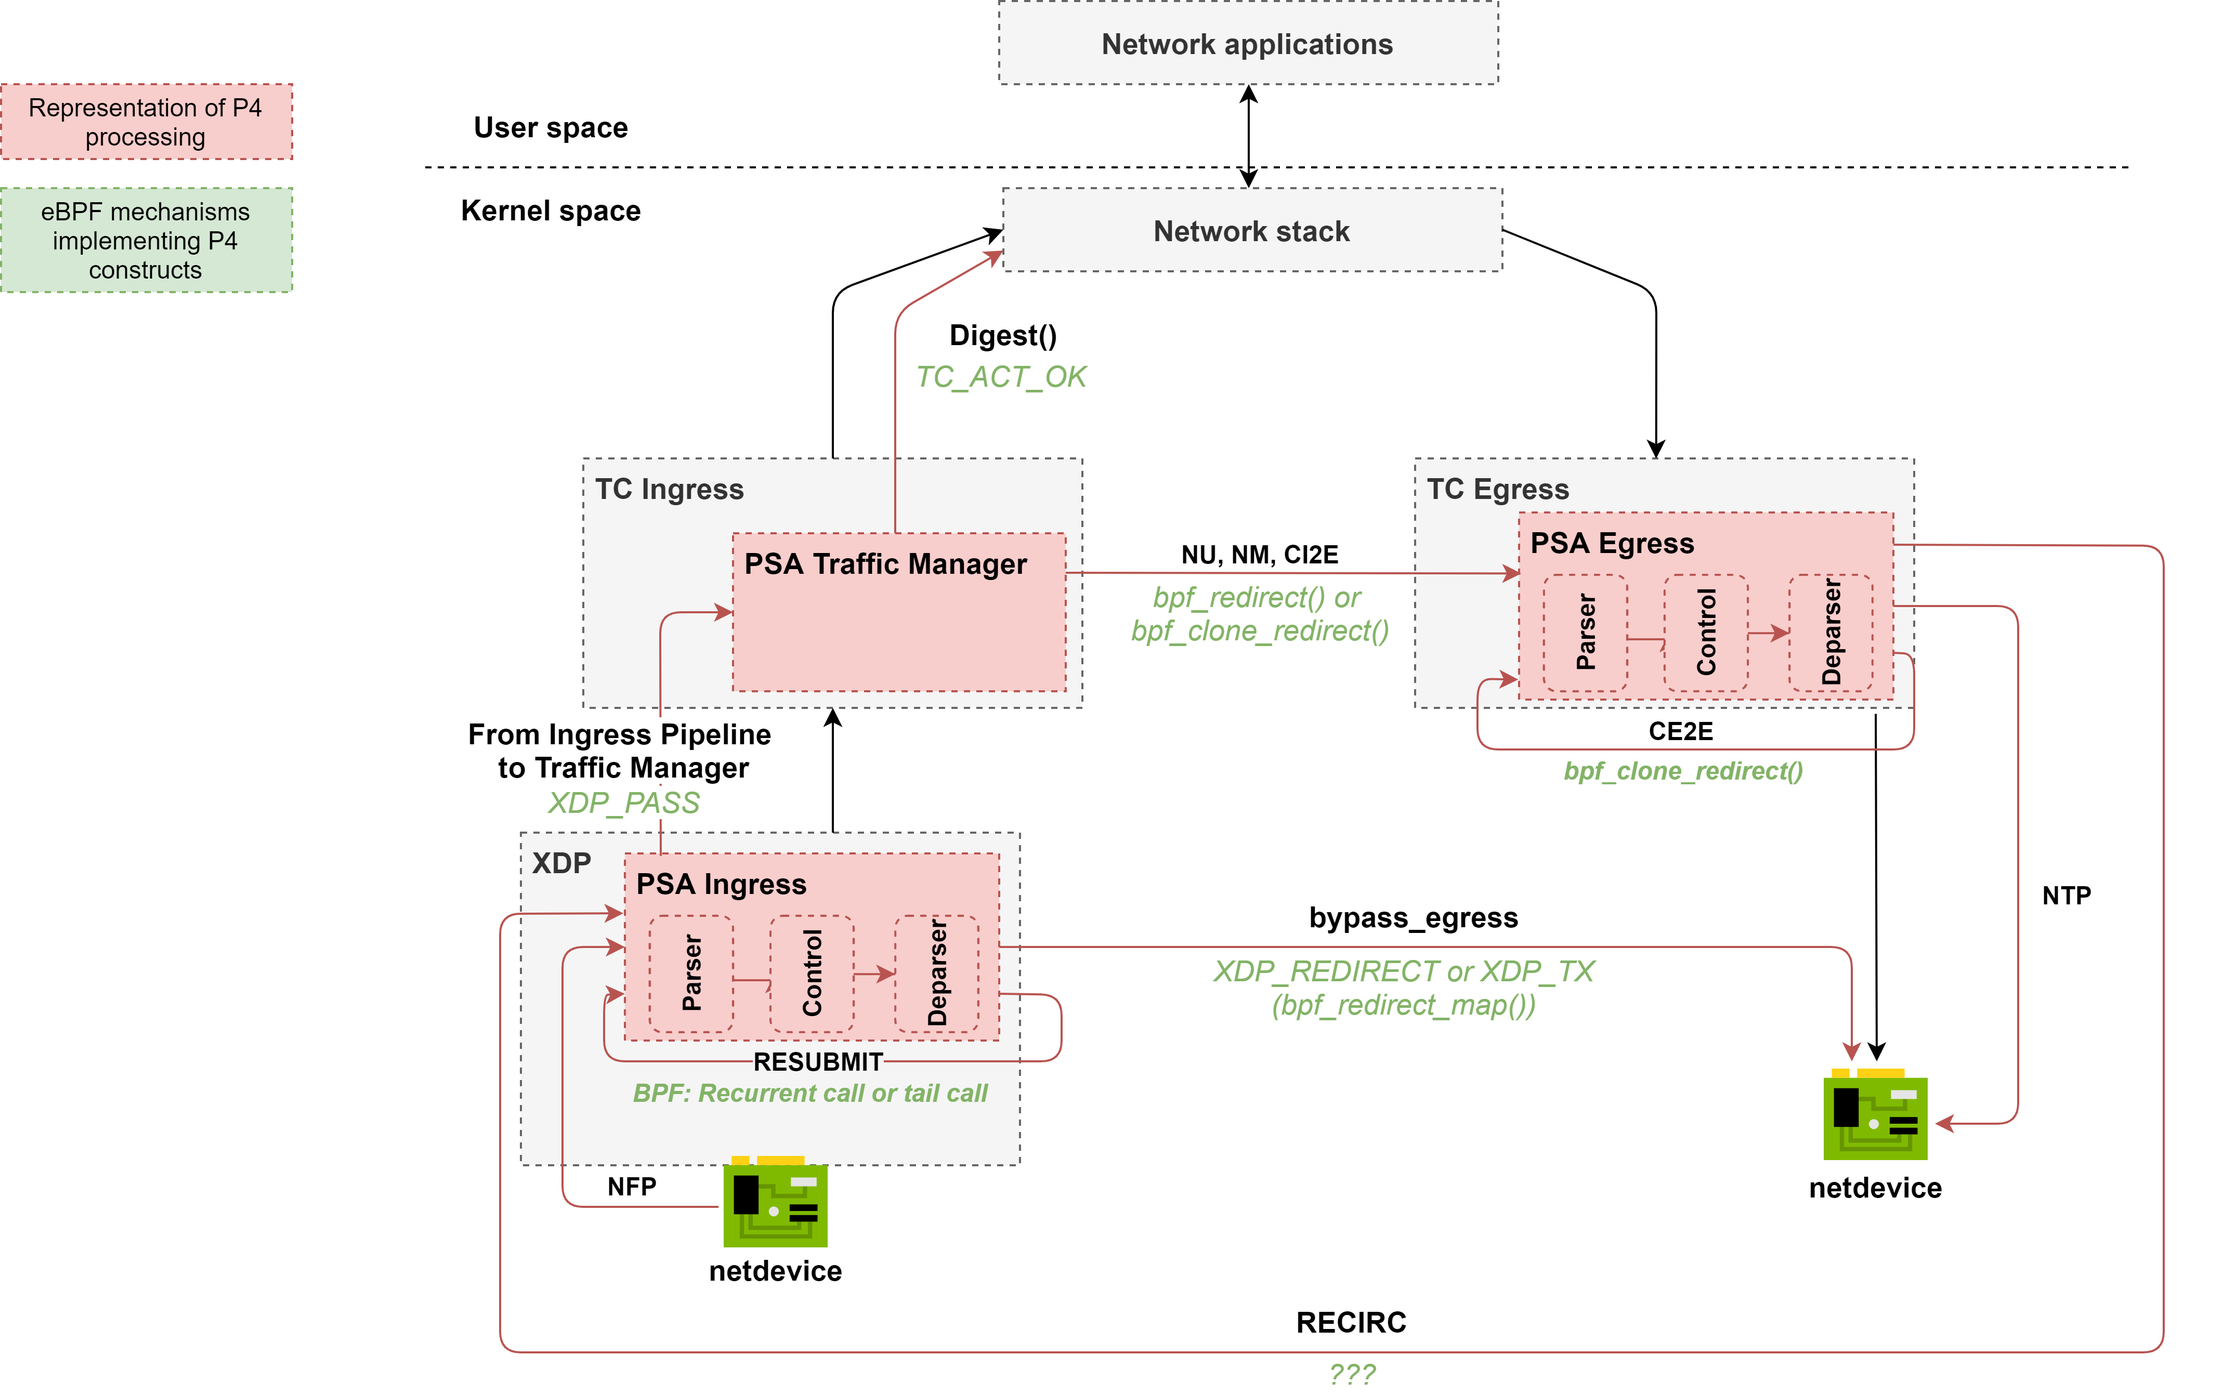
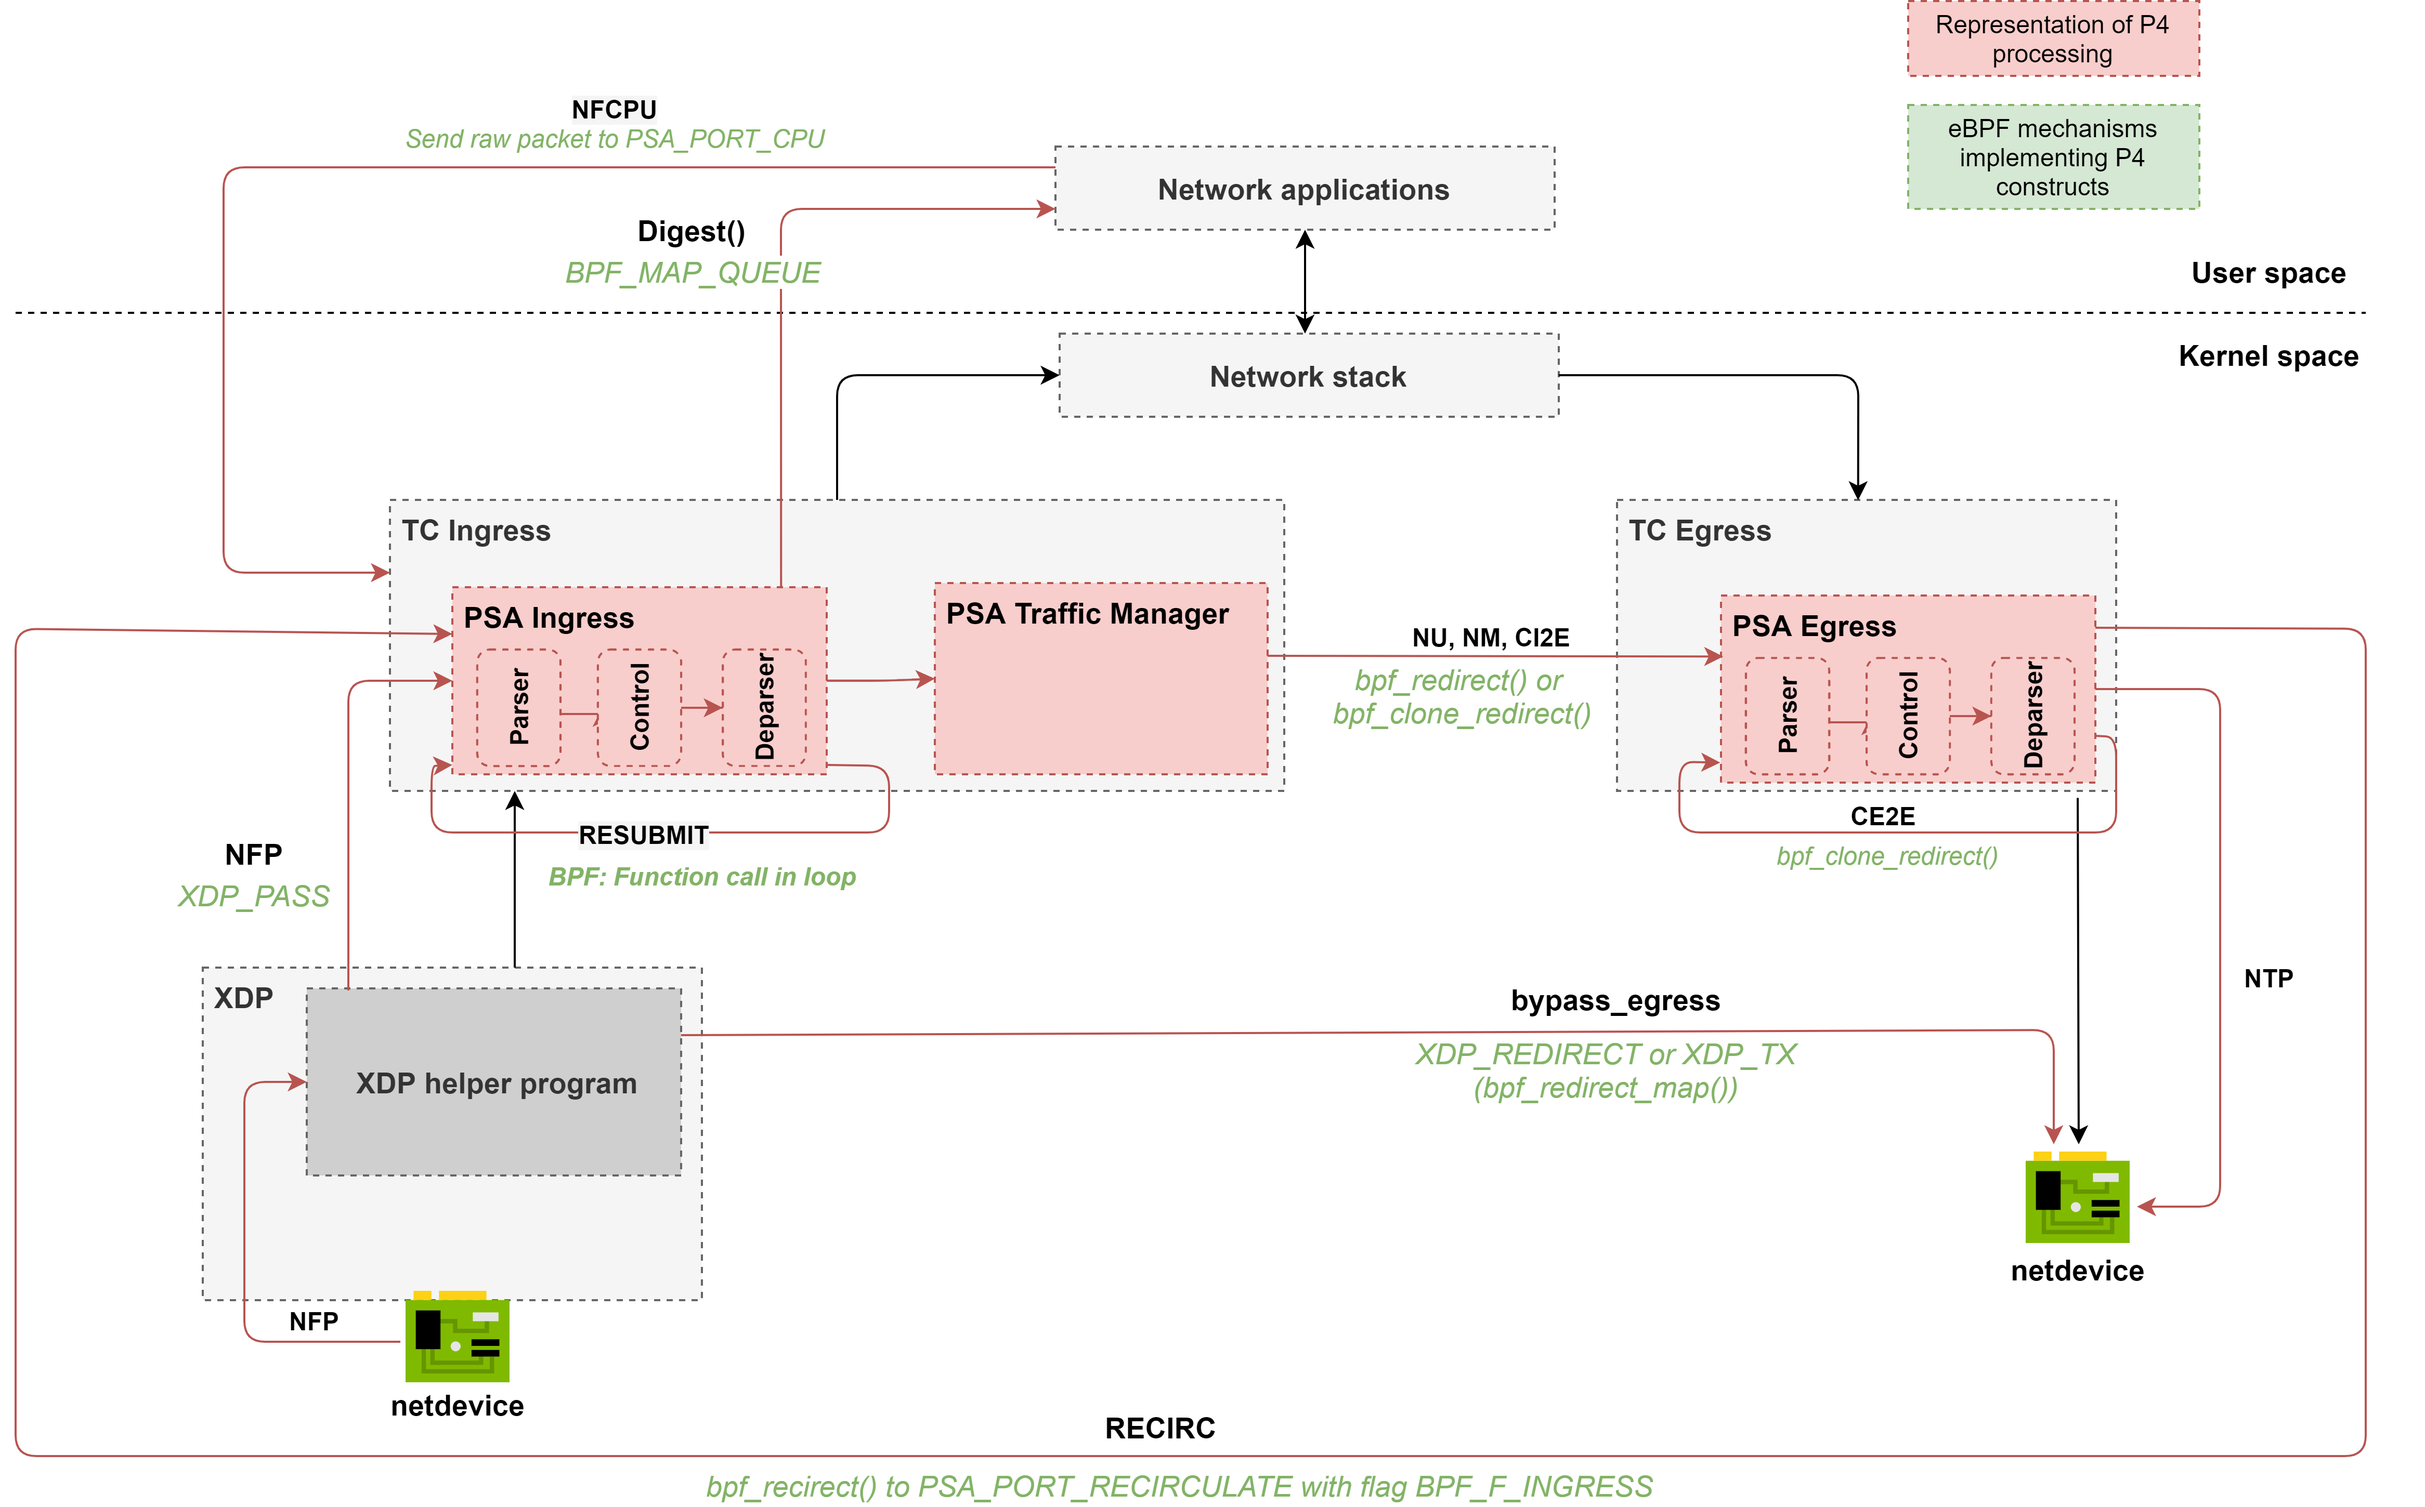
Documentation: updated design

diff --git a/backends/ebpf/docs/design.md b/backends/ebpf/docs/design.md
@@ -1,25 +1,42 @@
 # Overview
 
-The general design of PSA for eBPF is depicted in Figure below.
+The general design of PSA for eBPF is depicted in Figure below. For more details (sample implementation) please refer to 
+[PoC of target architecture](../samples/full-arch).
 
 ![alt text](figures/p4c-ebpf-psa.png "Design of PSA for eBPF")
 
 The PSA program is decomposed into several eBPF programs that are intended to be attached to various hook points in the Linux kernel.
 
-- `xdp-ingress` - The PSA Ingress pipeline (composed of Parser, Control block and Deparser) is attached to the XDP hook. The rationale is that 
-many packets can be discarded at the lowest level if the Ingress Parser does not support a packet header. 
-- `tc-ingress` - The PSA Egress pipeline (composed of Parser, Control block and Deparser) is attached to the TC Egress hook. As there is no 
-XDP hook in the Egress path, the use of TC is mandatory for the egress processing. However, there is no direct path between XDP 
-in the Ingress and the TC Egress hookpoint. Therefore, we introduce the another eBPF program in the TC Ingress.
-- `tc-egress` - In the TC Ingress, the so-called "Traffic Manager" eBPF program is attached. The role of this program is to redirect traffic between
-the Ingress (XDP) and Egress (TC). It is also responsible for packet cloning and sending packet to CPU (if `Digest` extern is used).
+- `xdp-helper` - the "helper" program attached to the XDP hookpoint. The role of the `xdp-helper` program is to prepare
+a packet for further processing in the TC subsystem. It might be also used to optimize performance by offloading ingress 
+packet processing to XDP, but it can be done only for some P4 programs. 
+- `tc-ingress` - In the TC Ingress, the P4 Ingress pipeline as well as so-called "Traffic Manager" eBPF program is attached. 
+The Ingress pipeline is composed of Parser, Control block and Deparser. The details of Parser, Control block and Deparser implementation
+will be explained further in this document. The same eBPF program in TC contains also the Traffic Manager. 
+The role of Traffic Manager is to redirect traffic between the Ingress (TC) and Egress (TC). 
+It is also responsible for packet cloning and sending packet to CPU (if `Digest` extern is used). 
+- `tc-egress` - The PSA Egress pipeline (composed of Parser, Control block and Deparser) is attached to the TC Egress hook. As there is no 
+XDP hook in the Egress path, the use of TC is mandatory for the egress processing.
+
+# Rationale behind the current design
+
+- The PSA specification differs from TNA or v1model in how the packets are processed after ingress processing is complete. 
+There is the following sequence of operations: `clone() -> drop() -> resubmit() -> multicast() -> unicast()`. However, in case of
+`clone()` and `resubmit()` a packet that is passed to these methods should be an unmodified, original packet. It causes the need to 
+perform deparsing after (at least) `clone()` is be performed. This forces us to place the P4 Ingress pipeline in the TC Ingress hookpoint
+and combine the P4 Ingress and Traffic Manager in the same eBPF program for TC. 
+- To make packet recirculation possible, we assume there will be at least one "special" interface created called `PSA_PORT_RECIRCULATE`.
+This port will have both Ingress and Egress pipelines attached to the TC hookpoint. Packets recirculated in the Egress will be send
+to this port.
 
 # Packet paths
 
 ## NFP (Normal Packet From Port)
 
-Packet arriving on an interface is intercepted in the XDP hook by the `xdp-ingress` program. It performs the Ingress processing and 
-further processing path is determined by `standard_metadata` fields.
+Packet arriving on an interface is intercepted in the XDP hook by the `xdp-helper` program. It performs some pre-processing and 
+packet is passed for further processing to the TC ingress. Note that there is no P4-related processing done in the `xdp-helper` program. 
+
+By default, a packet is further passed to the TC subsystem. It is done by `XDP_PASS` action and packet is further handled by `tc-ingress` program.
 
 ## bypass_egress
 
@@ -28,18 +45,28 @@ further processing path is determined by `standard_metadata` fields.
 The purpose of this packet path is to send packet directly to the egress port, skipping the egress processing.
 It can be done explicitly (in case of TNA by setting `bypass_egress` flag) or implicitly enforced by a compiler to improve performance.
 
-In the XDP hook, it is implemented by using `XDP_REDIRECT` or `XDP_TX` action. 
+In the XDP hook, it is implemented by using `XDP_REDIRECT` or `XDP_TX` action. However, it may be applied only in very limited number of cases.
+For example, if there is no egress processing implemented in the P4 program and packet cloning is not performed either.
 
 ## Resubmit
 
 The purpose of `RESUBMIT` is to transfer packet processing back to the Ingress Parser from Ingress Deparser.
 
-**TBD-1** It is for further study how to implement packet resubmission. 
+We implement packet resubmission by calling main `ingress()` function in a loop. The `MAX_RESUBMIT_DEPTH` variable specifies
+maximum number of resubmit operations. The `resubmit` flag defines whether the `tc-ingress` program should enter next iteration (resubmit)
+or break the loop. Pseudocode:
 
-## From Ingress Pipeline to Traffic Manager
-
-By default, a packet is further passed to the TC subsystem. It is done by `XDP_PASS` action and packet is further handled by `tc-ingress` program.
-Note that user metadata and standard metadata must be passed to the `tc-ingress` program. 
+```c
+int i = 0;
+int ret = TC_ACT_UNSPEC;
+for (i = 0; i < MAX_RESUBMIT_DEPTH; i++) {
+    out_md.resubmit = 0;
+    ret = ingress(skb, &out_md);
+    if (out_md.resubmit == 0) {
+        break;
+    }
+}
+```
 
 ## NU (Normal Unicast), NM (Normal Multicast), CI2E (Clone Ingress to Egress)
 
@@ -57,7 +84,8 @@ From the eBPF program's perspective, `bpf_clone_redirect()` must be invoked in t
 
 CE2E refers to process of copying a packet that was handled by the Egress pipeline and resubmitting the cloned packet to the Egress Parser.
 
-**TBD-2** It is for further study how to implement CE2E. 
+CE2E is implemented by invoking `bpf_clone_redirect()` helper in the Egress path. Output ports are determined based on the 
+`clone_session_id` and lookup to "clone_session" BPF map, which is shared among TC ingress and egress (eBPF subsystem allows for map sharing between programs). 
 
 ## Sending packet to CPU
 
@@ -74,7 +102,8 @@ the packet is forwarded via Traffic Manager to the Egress pipeline and then, sen
 
 The `Digest` extern causes a packet to be "digested" from the packet processing to CPU. `Digest` can be used in the Deparser
 of the Ingress pipeline. A packet that has been "digested" is passed to CPU. In the context of eBPF, it is implemented by 
-returnin `TC_ACT_OK` from the `tc-ingress` program causing a packet to be sent for the normal processing to the Network stack. 
+using the BPF map of type `BPF_MAP_QUEUE`. The `tc-ingress` program constructs structure to be digested and inserts it to the
+queue map. Digest message can be further read by a control plane application.
 
 ## NTP (Normal packet to port)
 
@@ -85,18 +114,11 @@ The egress port is determined in the Ingress pipeline and is not changed in the 
 
 The purpose of `RECIRC` is to transfer packet processing back from Egress Deparser to the Ingress Parser.
 
-**TBD-3** It is for further study how to implement packet recirculation. 
+In order to implement `RECIRC` we assume the existence of `PSA_PORT_RECIRCULATE`. Therefore, recirculation is simply performed by
+invoking `bpf_redirect()` to the `PSA_PORT_RECIRCULATE` port with `BPF_F_INGRESS` flag to enforce processing a packet by the Ingress pipeline. 
 
 # Metadata
 
-**TBD-4** Describe how metadata (standard or user) is passed in the eBPF subsystem. 
-
-# Architecture exemptions
-
-1. The XDP metadata does not contain `tstamp` field. Therefore, if `ingress_timestamp` is used in a P4 program the Ingress pipeline
-**must** be moved from XDP to TC.
-
-2. This if for further study, but if recirculation is used the control cannot be passed back from TC to XDP. Therefore, the Ingress pipeline
-implementation must exists in the TC ingress and in case recirculation is used, the TC-hooked Ingress pipeline handles recirculated packet.
-
+There are some global metadata defined for the PSA architecture. For example, `packet_path` must be shared among different pipelines.
+To share a global metadata between pipelines we will use `skb->cb` (control buffer), which gives us 20B that are free to use.
 
